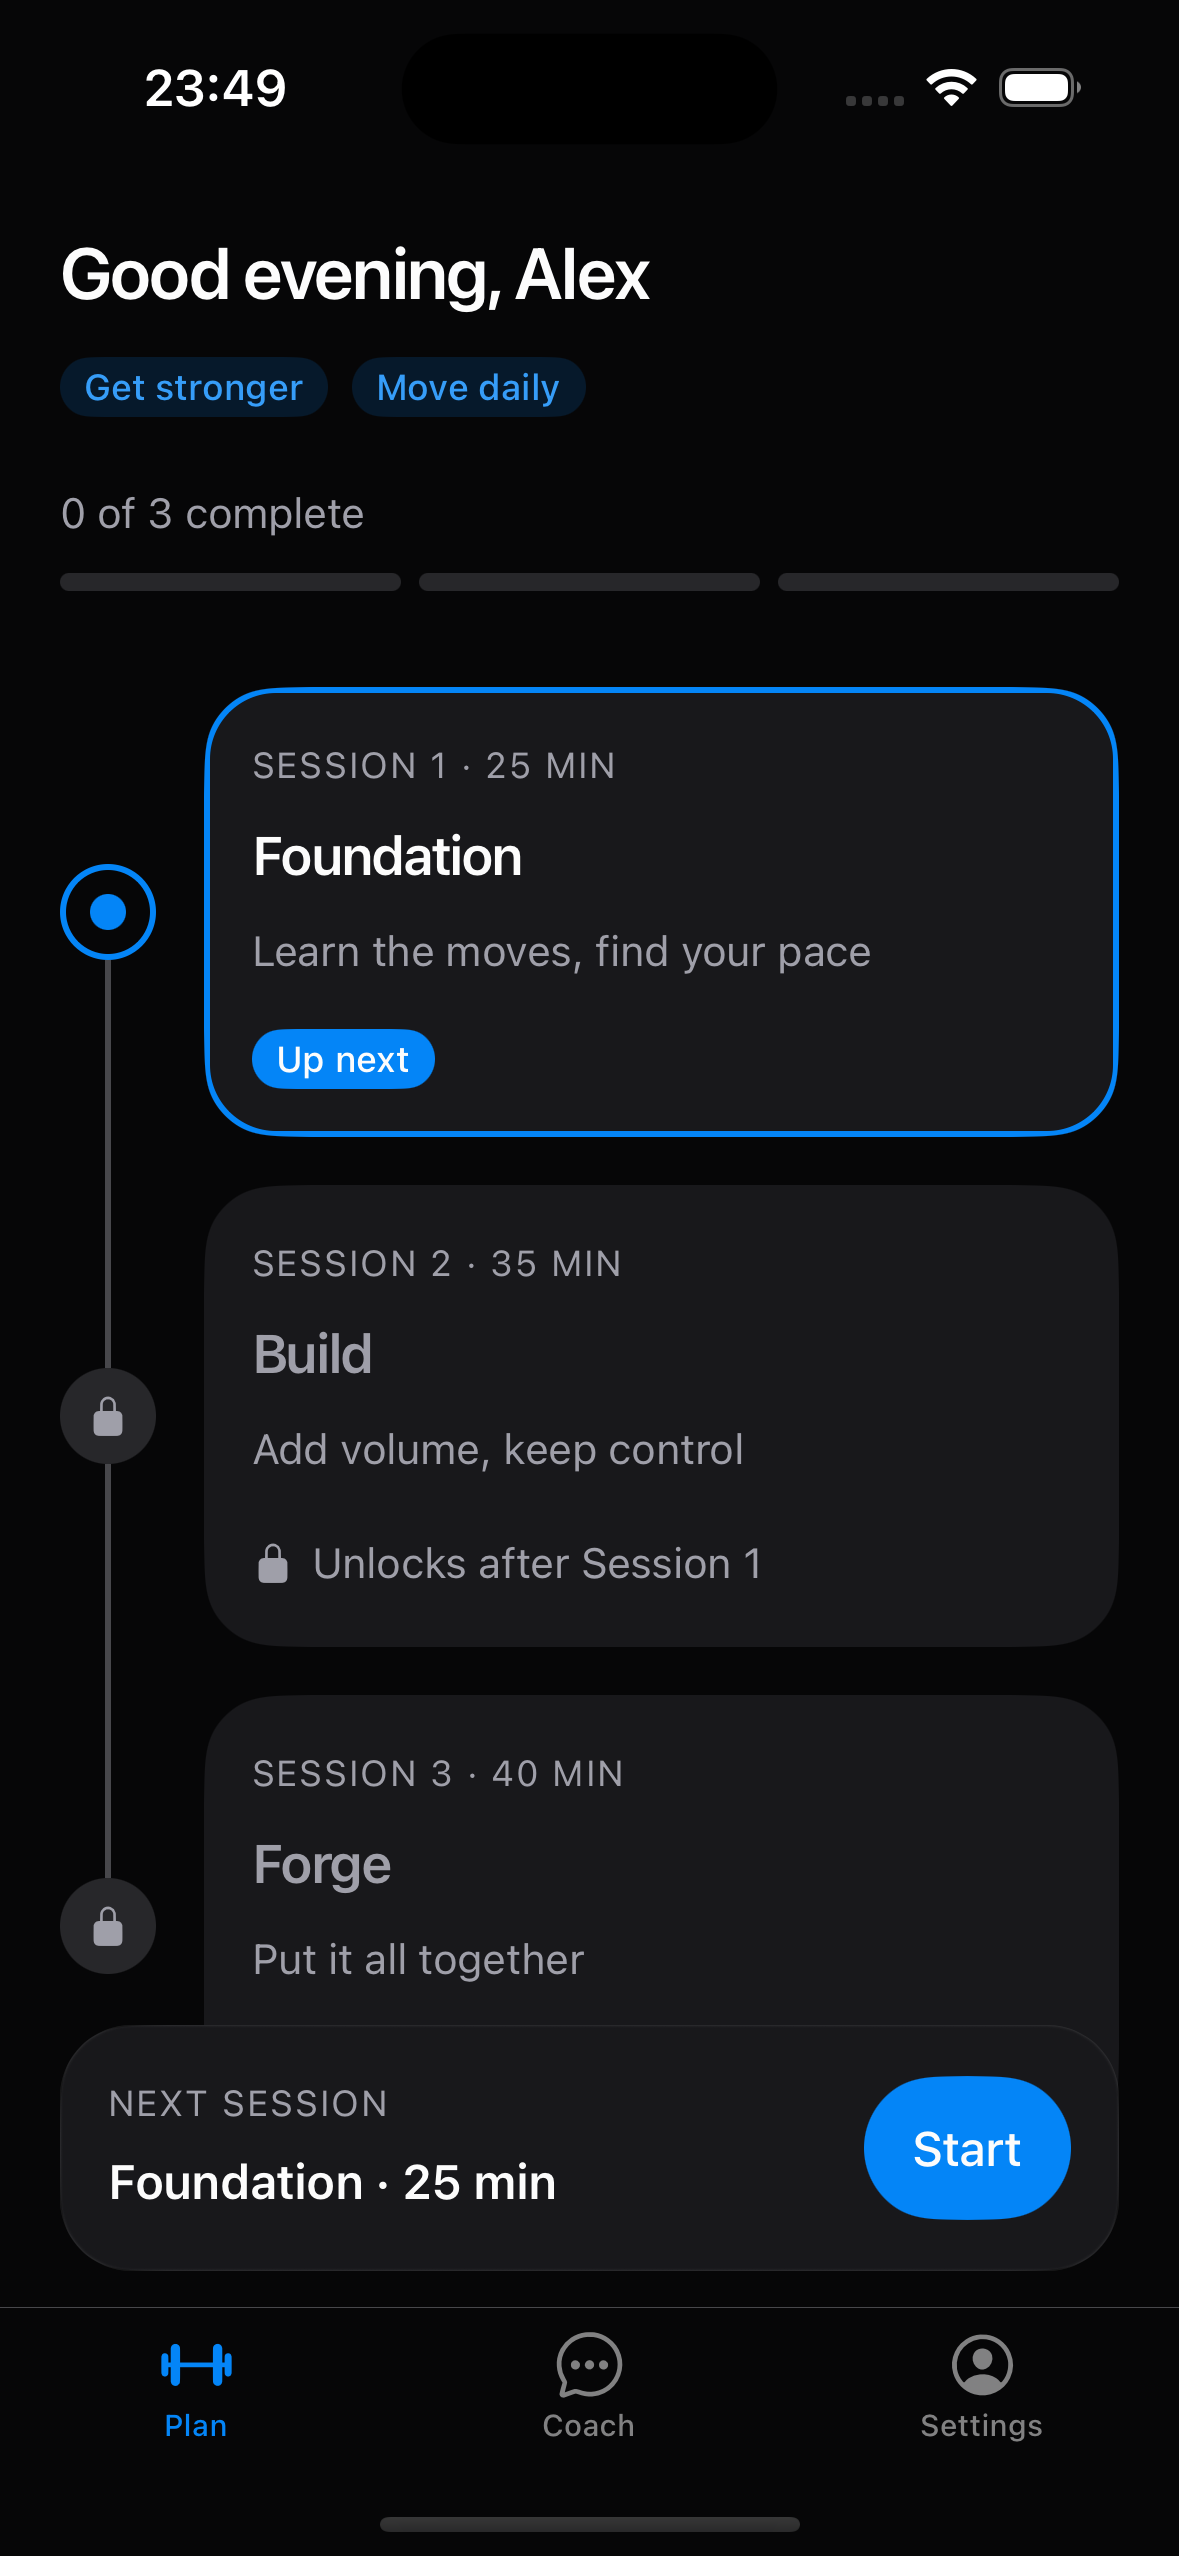
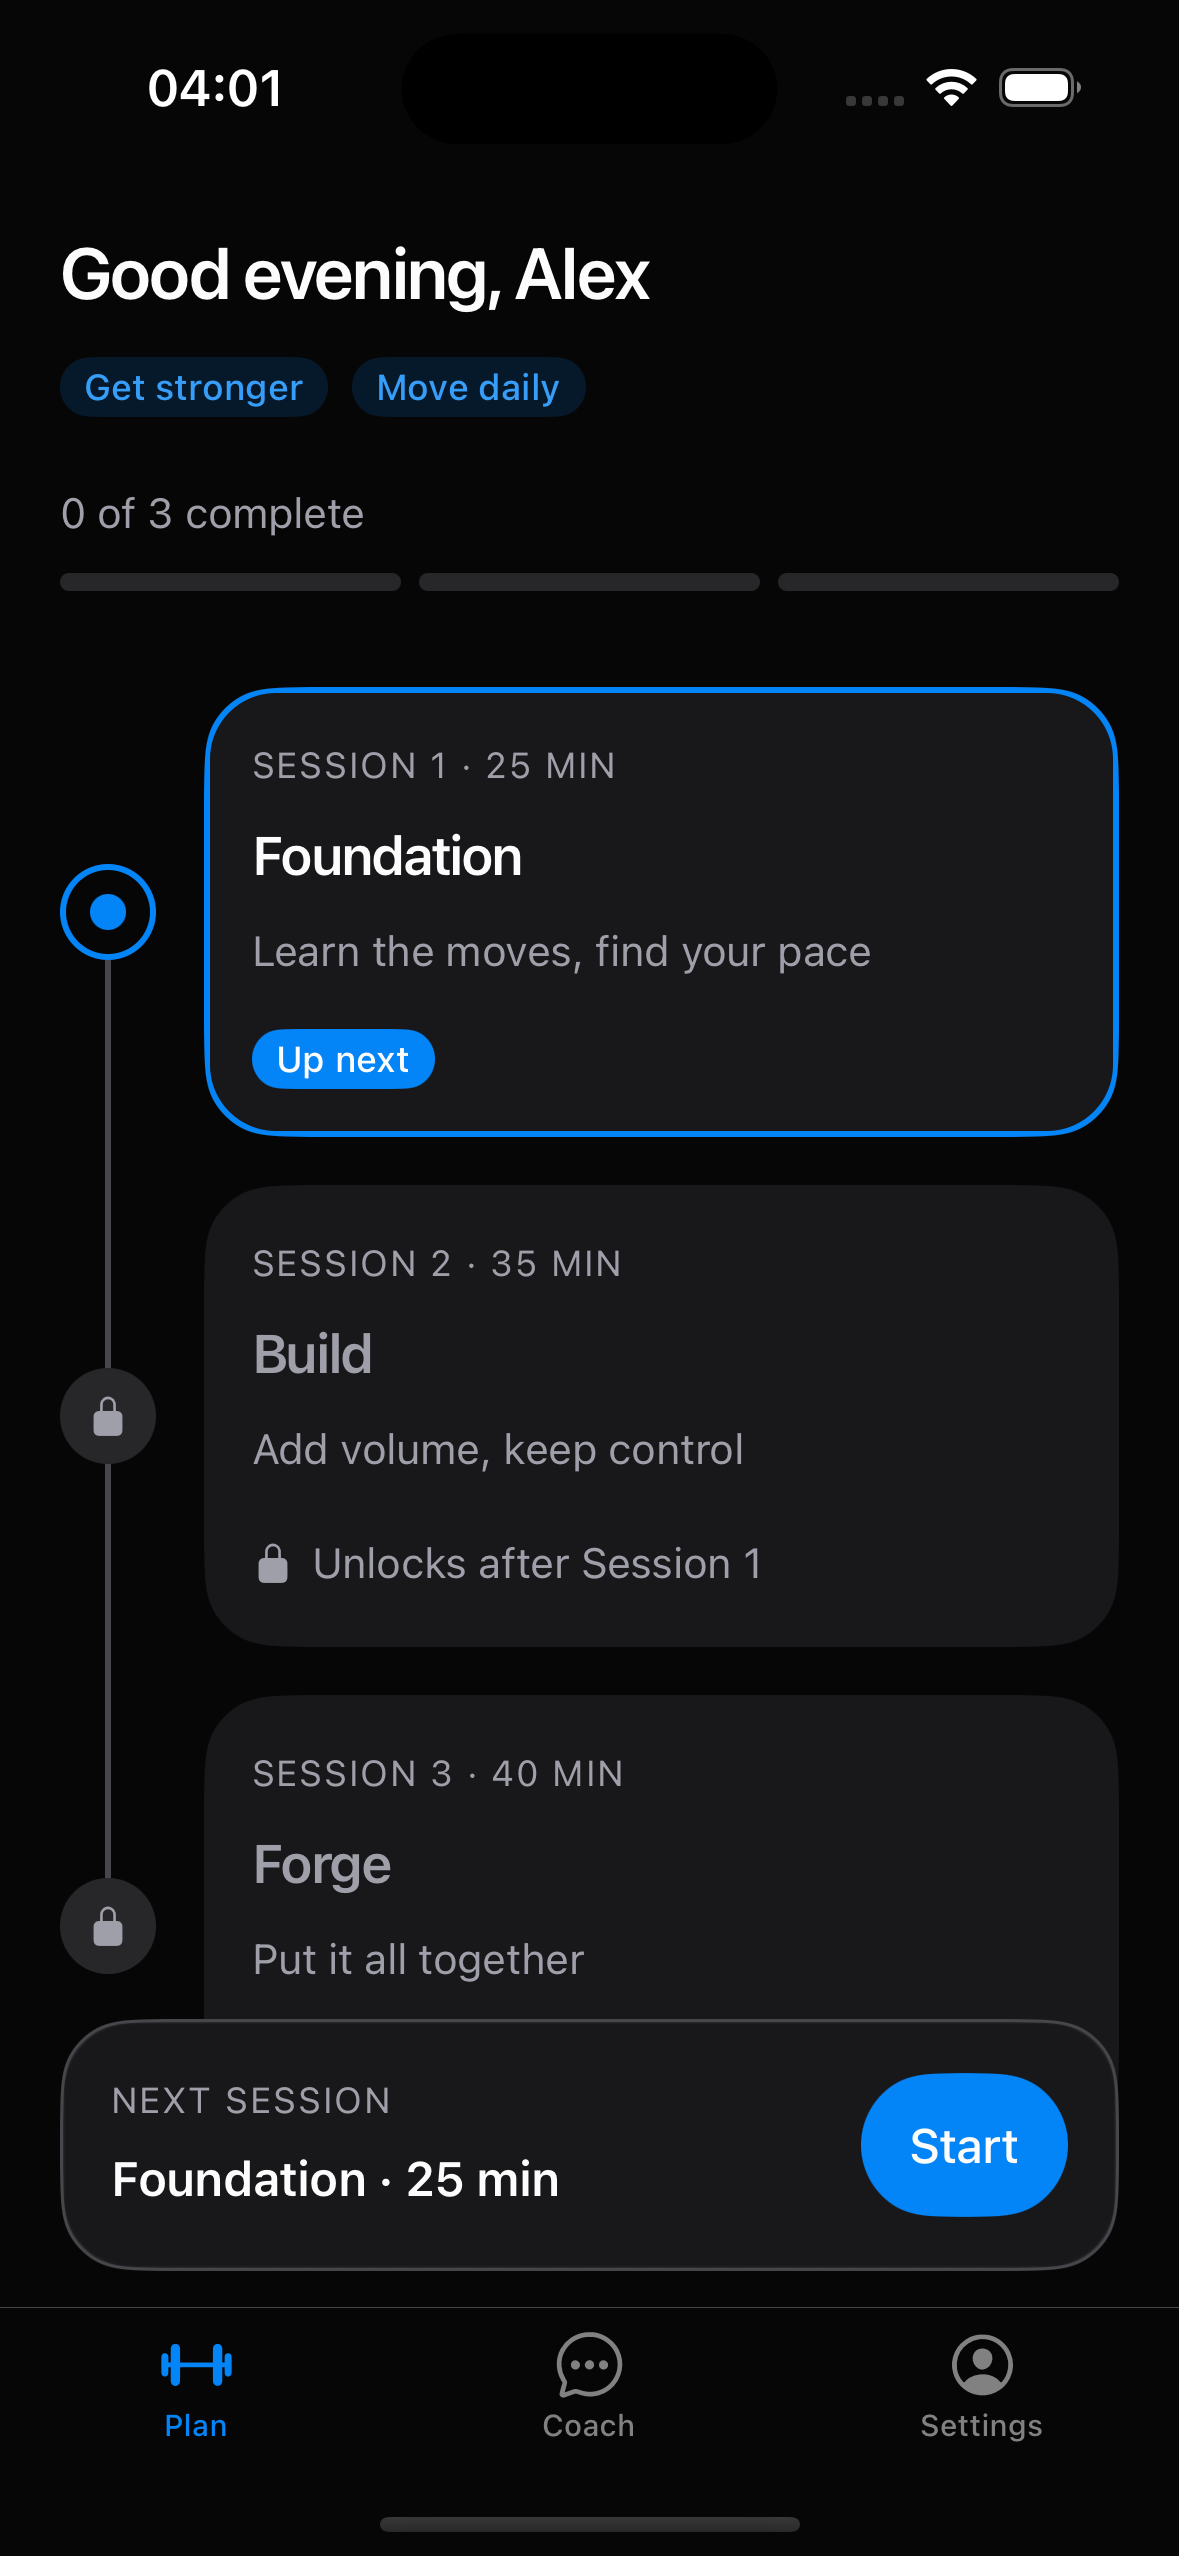
fix(mobile): final review polish for the plan bar, ticks, haptics and forms
- SubmitButton takes size ('md' | 'lg', default lg); "Restart plan" uses md so
  the sticky bar keeps one height, and the bar gets a border-separator hairline
  for dark
- checklist ticks are cleared in useCompleteSession / useResetPlan (hook level),
  so an unmounted screen or a timed-out completion cannot leave stale ticks
- the onboarding consent box is the same secondary Checkbox as the goal cards
- the Plan-side celebration haptic waits REVEAL_DELAY_MS with the motion
- coach send-error Alert sits pb-3 above the composer
- a rejected SecureStore read hydrates as "no token" instead of a stuck splash
- FormScreen JSDoc: content that moves the focused field belongs in children
- re-shot plan-complete, plan-dark, onboarding, onboarding-filled and
  coach-send-error; new settings-account screenshot

diff --git a/apps/mobile/src/features/plan/api.ts b/apps/mobile/src/features/plan/api.ts
@@ -2,6 +2,7 @@ import { planViewSchema, routes, type PlanView, type SessionId } from '@forge/co
 import { useMutation, useQuery } from '@tanstack/react-query';
 import { apiRequest, type ApiError } from '@/lib/api';
 import { queryClient, queryKeys } from '@/lib/query-client';
+import { useChecklist } from '@/stores/checklist-store';
 import { useSession } from '@/stores/session-store';
 
 export function usePlan() {
@@ -13,17 +14,28 @@ export function usePlan() {
   });
 }
 
-// The server decides what unlocks; its answer replaces the cached plan.
+// The server decides what unlocks; its answer replaces the cached plan. The checklist ticks are
+// cleared here, at hook level, because TanStack skips a `mutate()` call's own callbacks once the
+// calling screen has unmounted (the user backed out during a slow request), which would leave
+// the completed session pre-ticked for the next run of the plan.
 export function useCompleteSession() {
   return useMutation<PlanView, ApiError, SessionId>({
     mutationFn: (sessionId) => apiRequest('POST', routes.plan.complete(sessionId), planViewSchema),
-    onSuccess: (plan) => queryClient.setQueryData(queryKeys.plan, plan),
+    onSuccess: (plan, sessionId) => {
+      queryClient.setQueryData(queryKeys.plan, plan);
+      useChecklist.getState().clear(sessionId);
+    },
   });
 }
 
+// A restart starts every session from a blank checklist, including one whose completion the
+// client never saw succeed (a timed-out request the server still applied).
 export function useResetPlan() {
   return useMutation<PlanView, ApiError, void>({
     mutationFn: () => apiRequest('POST', routes.plan.reset, planViewSchema),
-    onSuccess: (plan) => queryClient.setQueryData(queryKeys.plan, plan),
+    onSuccess: (plan) => {
+      queryClient.setQueryData(queryKeys.plan, plan);
+      useChecklist.getState().reset();
+    },
   });
 }

diff --git a/apps/mobile/src/app/(tabs)/index.tsx b/apps/mobile/src/app/(tabs)/index.tsx
@@ -12,6 +12,7 @@ import { PlanCompleteCard } from '@/features/plan/plan-complete-card';
 import { PlanHeader } from '@/features/plan/plan-header';
 import { PlanSkeleton } from '@/features/plan/plan-skeleton';
 import { TimelineItem } from '@/features/plan/timeline-item';
+import { REVEAL_DELAY_MS } from '@/features/plan/use-celebration-motion';
 import { usePlanCelebration } from '@/stores/celebration-store';
 
 export default function PlanScreen() {
@@ -29,12 +30,20 @@ export default function PlanScreen() {
   // start their animation on this render; the effect below fires the haptic and clears it.
   const celebration = isFocused && plan.data ? pending : null;
 
+  // The motion waits REVEAL_DELAY_MS for the pop transition, so the haptic waits with it: the
+  // impact lands on the spring, and the plan-complete Success sits apart from the one the
+  // session screen fired. The celebration is consumed with the haptic (consuming it earlier
+  // would re-run this effect and cancel the timer); a screen left before then replays it next
+  // time, and nothing visible has happened yet by then.
   useEffect(() => {
     if (!celebration) return;
-    void (celebration.kind === 'unlock'
-      ? Haptics.impactAsync(Haptics.ImpactFeedbackStyle.Medium)
-      : Haptics.notificationAsync(Haptics.NotificationFeedbackType.Success));
-    usePlanCelebration.getState().consume();
+    const timer = setTimeout(() => {
+      void (celebration.kind === 'unlock'
+        ? Haptics.impactAsync(Haptics.ImpactFeedbackStyle.Medium)
+        : Haptics.notificationAsync(Haptics.NotificationFeedbackType.Success));
+      usePlanCelebration.getState().consume();
+    }, REVEAL_DELAY_MS);
+    return () => clearTimeout(timer);
   }, [celebration]);
 
   if (plan.isPending) return <PlanSkeleton />;

diff --git a/apps/mobile/src/features/plan/next-session-bar.tsx b/apps/mobile/src/features/plan/next-session-bar.tsx
@@ -16,7 +16,9 @@ export function NextSessionBar({ plan, onStart, onRestart, isRestarting }: NextS
 
   return (
     <View className="absolute inset-x-0 bottom-0 px-5 pb-3">
-      <Surface className="flex-row items-center gap-4 shadow-overlay">
+      {/* The hairline is the elevation cue in dark, where surface shadows are transparent;
+          in light it hides under the shadow. */}
+      <Surface className="flex-row items-center gap-4 border border-separator shadow-overlay">
         <View className="flex-1 gap-0.5">
           <Typography type="body-xs" color="muted" className="uppercase tracking-wider">
             {next ? 'Next session' : 'Plan complete'}
@@ -33,7 +35,13 @@ export function NextSessionBar({ plan, onStart, onRestart, isRestarting }: NextS
           </Button>
         ) : (
           <View className="min-w-32">
-            <SubmitButton label="Restart plan" isPending={isRestarting} onPress={onRestart} />
+            {/* Same height as "Start" (md), so the bar does not grow when the plan completes. */}
+            <SubmitButton
+              label="Restart plan"
+              size="md"
+              isPending={isRestarting}
+              onPress={onRestart}
+            />
           </View>
         )}
       </Surface>

diff --git a/apps/mobile/src/features/profile/consent-field.tsx b/apps/mobile/src/features/profile/consent-field.tsx
@@ -1,4 +1,4 @@
-import { ControlField, FieldError, Typography } from 'heroui-native';
+import { Checkbox, ControlField, FieldError, Typography } from 'heroui-native';
 import { View } from 'react-native';
 import { useController, type Control, type FieldPath, type FieldValues } from 'react-hook-form';
 
@@ -23,7 +23,10 @@ export function ConsentField<TValues extends FieldValues, TOutput>({
         accessibilityState={{ checked: isSelected }}
         className="items-start"
       >
-        <ControlField.Indicator variant="checkbox" />
+        {/* The same box as the goal cards above it, so onboarding shows one checkbox look. */}
+        <ControlField.Indicator>
+          <Checkbox variant="secondary" />
+        </ControlField.Indicator>
         <Typography type="body-sm" className="flex-1">
           I agree that Forge stores my profile, progress and coach messages to personalise my
           training. I can delete all of it in Settings.

diff --git a/apps/mobile/src/app/session/[id].tsx b/apps/mobile/src/app/session/[id].tsx
@@ -152,7 +152,6 @@ function CompleteBar({
   const plan = usePlan();
   const { toast } = useToast();
   const tickedCount = useChecklist((state) => (state.ticked[sessionId] ?? NO_TICKS).length);
-  const clear = useChecklist((state) => state.clear);
   const allTicked = tickedCount === blockCount;
 
   // A small pulse the moment the last block is ticked and the button becomes available.
@@ -176,11 +175,11 @@ function CompleteBar({
       ? `Finishing unlocks ${nextTitle}.`
       : 'Finishing completes your plan.';
 
+  // The ticks are cleared by the mutation hook itself (it outlives this screen).
   const onComplete = () =>
     complete.mutate(sessionId, {
       onSuccess: (updated) => {
         void Haptics.notificationAsync(Haptics.NotificationFeedbackType.Success);
-        clear(sessionId);
         usePlanCelebration
           .getState()
           .celebrate(

diff --git a/apps/mobile/src/components/submit-button.tsx b/apps/mobile/src/components/submit-button.tsx
@@ -6,6 +6,8 @@ interface SubmitButtonProps {
   isPending?: boolean;
   isDisabled?: boolean;
   variant?: 'primary' | 'danger';
+  /** `md` (48 pt) where the button sits beside md-sized buttons, e.g. in the Plan's sticky bar. */
+  size?: 'md' | 'lg';
 }
 
 /** The screen's primary action. While pending it shows a spinner and ignores further presses. */
@@ -15,13 +17,14 @@ export function SubmitButton({
   isPending = false,
   isDisabled = false,
   variant = 'primary',
+  size = 'lg',
 }: SubmitButtonProps) {
   const spinnerColor = useThemeColor(
     variant === 'danger' ? 'danger-foreground' : 'accent-foreground',
   );
   return (
     <Button
-      size="lg"
+      size={size}
       variant={variant}
       isDisabled={isDisabled}
       onPress={isPending ? undefined : onPress}

diff --git a/apps/mobile/src/stores/session-store.ts b/apps/mobile/src/stores/session-store.ts
@@ -3,9 +3,10 @@ import { useSyncExternalStore } from 'react';
 import { create } from 'zustand';
 import { createJSONStorage, persist, type StateStorage } from 'zustand/middleware';
 
-// The JWT lives in the Keychain / Keystore, never in AsyncStorage.
+// The JWT lives in the Keychain / Keystore, never in AsyncStorage. A failed read counts as "no
+// token": zustand's persist never finishes hydrating on a rejection, and the splash waits for it.
 const secureStorage: StateStorage = {
-  getItem: (name) => SecureStore.getItemAsync(name),
+  getItem: (name) => SecureStore.getItemAsync(name).catch(() => null),
   setItem: (name, value) => SecureStore.setItemAsync(name, value),
   removeItem: (name) => SecureStore.deleteItemAsync(name),
 };

diff --git a/apps/mobile/src/components/form-screen.tsx b/apps/mobile/src/components/form-screen.tsx
@@ -18,7 +18,14 @@ interface FormScreenProps {
 // Helper line + gap + 56 pt submit button below the focused field's caret, plus a 24 pt margin.
 const KEYBOARD_BOTTOM_OFFSET = 144;
 
-/** Scrollable, keyboard-aware form layout: the focused field is never hidden by the keyboard. */
+/**
+ * Scrollable, keyboard-aware form layout: the focused field is never hidden by the keyboard.
+ *
+ * A FormAlert, an inline error or anything else whose appearance moves the focused field must
+ * render inside `children`: the fields container's `onLayout` is what re-runs
+ * `assureFocusedInputVisible()`, and content placed in `footer` or beside the title is not
+ * watched.
+ */
 export function FormScreen({
   title,
   subtitle,

diff --git a/apps/mobile/src/features/coach/coach-chat.tsx b/apps/mobile/src/features/coach/coach-chat.tsx
@@ -76,7 +76,7 @@ export function CoachChat() {
           />
         )}
         {sendError ? (
-          <View className="px-5 pb-2">
+          <View className="px-5 pb-3">
             <FormAlert message={sendError} />
           </View>
         ) : null}

diff --git a/docs/decisions/plan-b.md b/docs/decisions/plan-b.md
@@ -35,3 +35,7 @@
 - `KeyboardProvider` gets `statusBarTranslucent` and `navigationBarTranslucent` · on the Android emulator every screen sat between a 52 dp white band under the status bar and a 24 dp one under the gesture bar, and in dark mode the light status-bar icons vanished on the white: react-native-keyboard-controller only treats the bars as translucent when `react-native-is-edge-to-edge` reports edge-to-edge, which Expo Go 57 does not (neither the `RNEdgeToEdge` module nor `DeviceInfo.isEdgeToEdge` is present), so the provider padded the root by the system-bar insets and the window background showed through; with the flags the app draws under both bars, like iOS, and the existing `pt-safe`/`pb-safe` paddings take the insets · none on iOS (the props are ignored there); on Android the screens now scroll under the status bar exactly as they do on iOS
 - The Android emulator reaches the API through `adb reverse tcp:3001 tcp:3001`, with `apps/mobile/.env` left at `http://127.0.0.1:3001` for both platforms · one Metro process and one env file serve the iOS simulator and the emulator at the same time, while the README keeps `http://10.0.2.2:3000` as the documented route for a clean machine · the reverse has to be re-applied after the emulator restarts, and a reader who copies the `.env` from this machine gets a URL the emulator cannot reach without it
 - The walkthrough's remaining visual nits are left as they are and listed in the root README's "one more hour" section: the dark sticky bar's hairline-only separation from the last card, the taller "Restart plan" button next to "Start", and tab-screen content scrolling under the status-bar clock · each is cosmetic, none blocks a flow, and a fix in the final task would go unreviewed · reviewers see three small imperfections that the README already owns up to
+- `SubmitButton` takes an optional `size` (`'md' | 'lg'`, default `lg`) and the Plan bar's "Restart plan" uses `md` (the first of the walkthrough nits above; the bar also gets a `border-separator` hairline as its elevation cue in dark) · the sticky bar otherwise grew by 8 pt when the plan completed, and every other caller keeps the 56 pt primary action · "Restart plan" is 48 pt, smaller than the app's other submit buttons, which is what sitting beside "Start" asks for
+- Checklist ticks are cleared in the mutation hooks (`useCompleteSession` clears the completed session's ticks, `useResetPlan` resets them all), and the session screen's own call-level `clear` is gone · TanStack skips a `mutate()` call's callbacks once the calling screen has unmounted, so backing out during a slow completion, or a timed-out request the server still applied, left the session pre-ticked with "Complete session" enabled after "Restart plan" · none; the hook-level callback runs before the call-level one, so the celebration and navigation are unaffected
+- The Plan-side celebration haptic fires after `REVEAL_DELAY_MS` (a `setTimeout` with cleanup) and the celebration is consumed in that same callback, not synchronously in the effect · the motion waits the same delay for the pop transition, so the impact now lands on the spring and the plan-complete Success no longer stacks on the session screen's; consuming synchronously would re-render with no celebration and the effect cleanup would cancel the timer · a Plan left within 350 ms of focus keeps the celebration pending and replays it (motion and haptic) next time, which is invisible in practice because nothing has been drawn by then
+- The SecureStore read in the session storage adapter catches and returns `null` · zustand's `persist` never finishes hydration when `getItem` rejects (a Keychain error), and the splash waits for hydration, so the app would sit on the splash forever instead of showing sign-in · a corrupted token read looks like a signed-out user, and the stale entry is overwritten by the next sign-in
